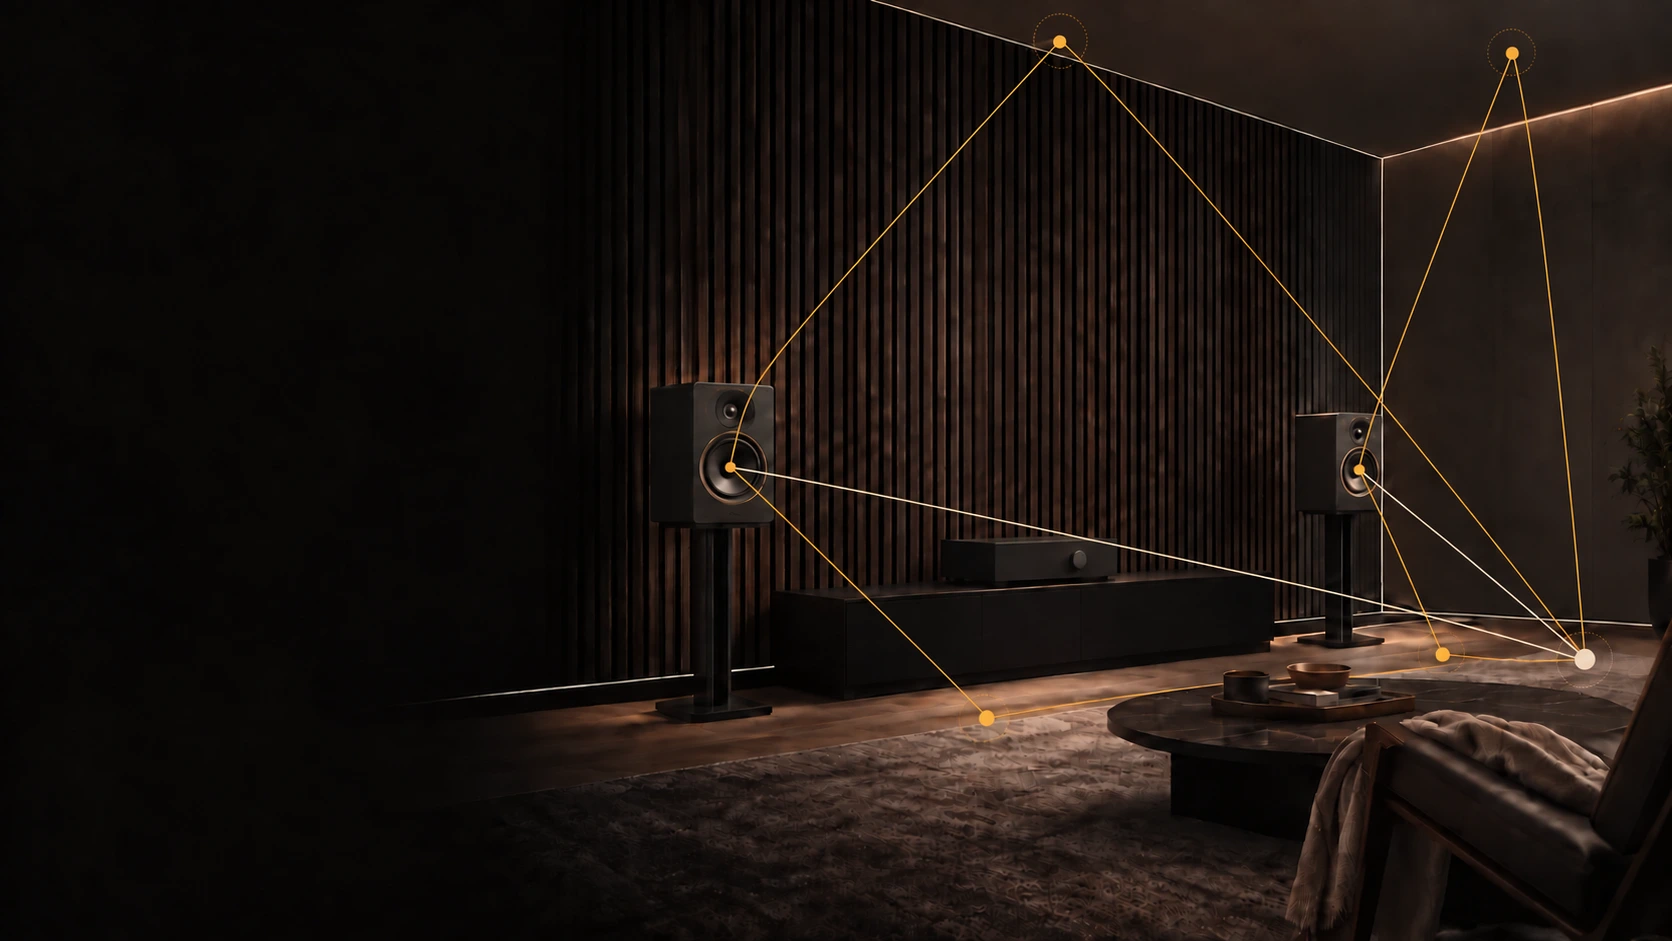
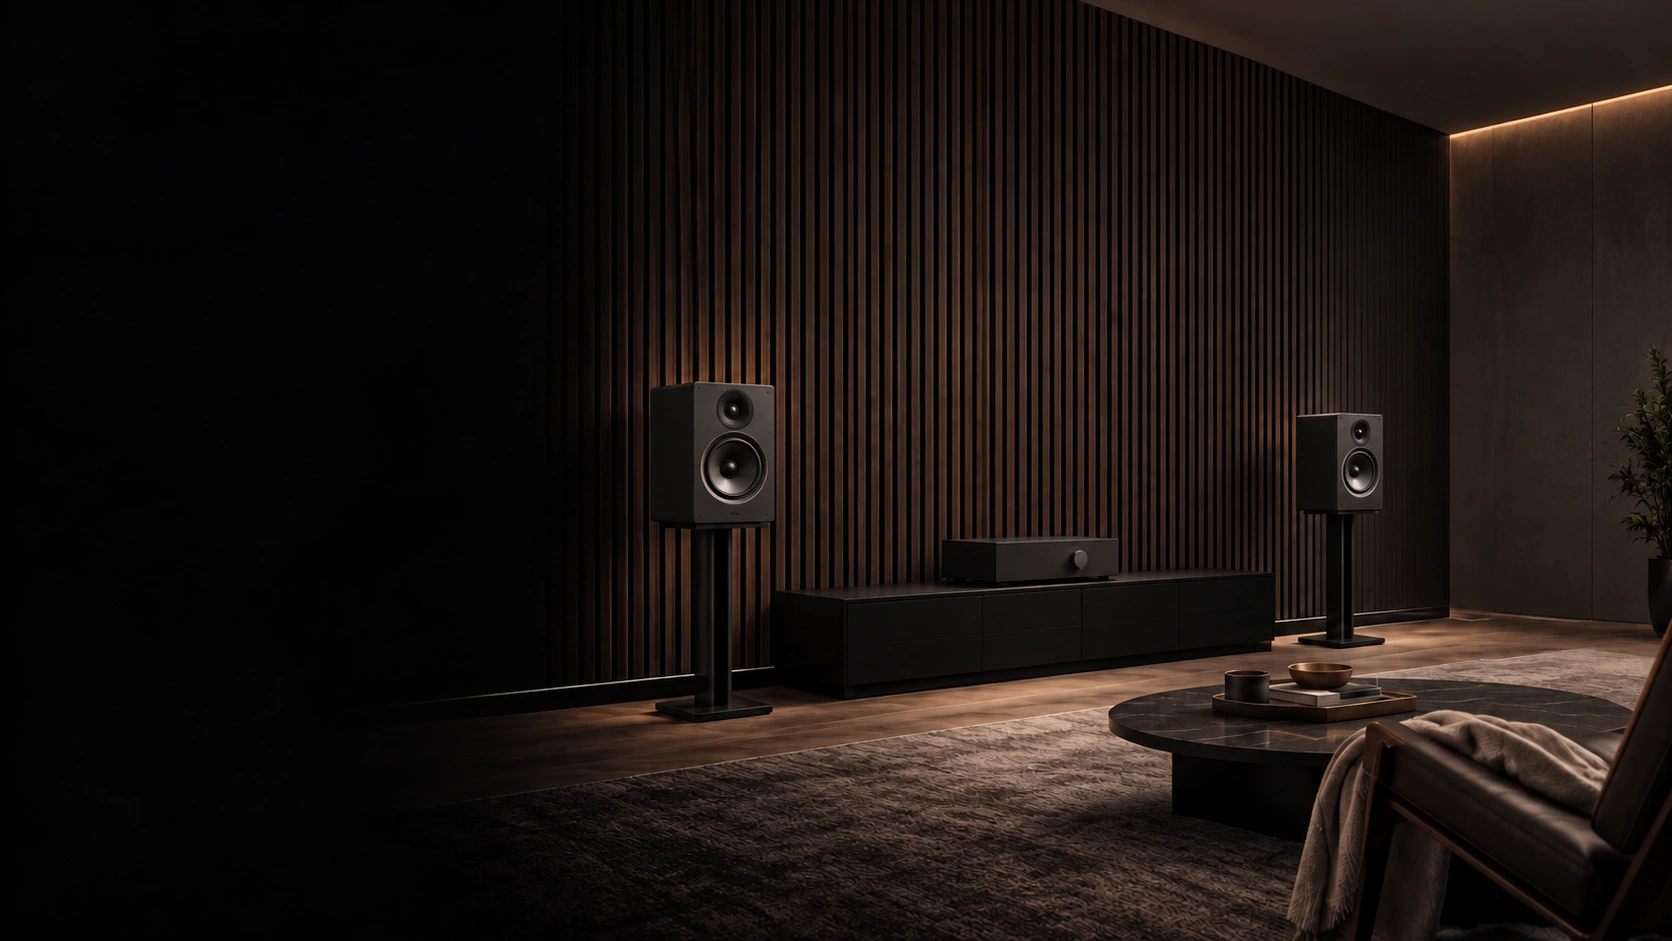
Portada: imagen principal nueva (sin trazados, con el lado izquierdo oscurecido)
Reemplaza hero-portada.webp por la imagen entregada por el usuario (139 KB,
WebP a calidad 0,94 para que el degradé oscuro no marque bandas). Sin líneas
naranjas en la imagen, el pie de figura pasa a "Ilustración conceptual, no es
una medición de tu sala".

diff --git a/apps/web/index.html b/apps/web/index.html
@@ -116,12 +116,12 @@
           </ul>
         </div>
       </div>
-      <!-- Imagen principal: marcador de la propuesta de Codex. Para cambiarla
+      <!-- Imagen principal (escena ilustrativa, sin trazados). Para cambiarla
            basta reemplazar apps/web/src/assets/hero-portada.webp (mismo
            nombre) — decorativa (alt vacío), el pie de figura declara qué es. -->
       <figure class="pc-hero-imagen">
         <img src="./src/assets/hero-portada.webp" width="1672" height="941" alt="">
-        <figcaption data-i18n="splash.pcImagenNota">Ilustración conceptual: los trazados no son una medición de tu sala.</figcaption>
+        <figcaption data-i18n="splash.pcImagenNota">Ilustración conceptual, no es una medición de tu sala.</figcaption>
       </figure>
     </div>
 

diff --git a/apps/web/src/idioma/en.ts b/apps/web/src/idioma/en.ts
@@ -124,7 +124,7 @@ export const en: Textos = {
     pcTitulo3: 'balance.',
     pcLead: 'Understand how your equipment, your room and the way you listen relate to each other.',
     pcCta: 'Set up my system',
-    pcImagenNota: 'Conceptual illustration: the lines are not a measurement of your room.',
+    pcImagenNota: 'Conceptual illustration, not a measurement of your room.',
     pcCarril1Titulo: 'Electrical match',
     pcCarril1Sub: 'amplifier ↔ speakers',
     pcCarril2Titulo: 'Power headroom',

diff --git a/apps/web/src/idioma/es.ts b/apps/web/src/idioma/es.ts
@@ -218,7 +218,7 @@ export const es = {
     pcTitulo3: 'equilibrio.',
     pcLead: 'Entiende la relación entre tus equipos, tu sala y tu forma de escuchar.',
     pcCta: 'Configurar mi sistema',
-    pcImagenNota: 'Ilustración conceptual: los trazados no son una medición de tu sala.',
+    pcImagenNota: 'Ilustración conceptual, no es una medición de tu sala.',
     pcCarril1Titulo: 'Acople eléctrico',
     pcCarril1Sub: 'amplificador ↔ parlantes',
     pcCarril2Titulo: 'Reserva de potencia',

diff --git a/CLAUDE.md b/CLAUDE.md
@@ -4663,8 +4663,13 @@ headless desde un PNG de 1,4 MB generado con IA por Codex): basta pisar
 ese archivo, mismo nombre. Es decorativa (`alt=""`) y lleva un pie de
 figura visible — "Ilustración conceptual: los trazados no son una
 medición de tu sala" — porque el sitio no afirma física sin mecanismo.
-Ojo: la guía gráfica THM pide evitar imágenes generadas por IA; el
-usuario lo sabe y eligió dejarla por ahora. `vite-plugin-singlefile` la
+**Actualización:** el usuario entregó una imagen nueva (`fondo thm portada1`, la
+misma escena sin las líneas naranjas y con el lado izquierdo ya oscurecido);
+reemplaza a la anterior (139 KB, WebP a calidad 0,94 — a 0,86 se veía más
+liviana, pero un degradé oscuro es justo donde el WebP marca bandas). Como ya
+no hay trazados, el pie de figura pasa a "Ilustración conceptual, no es una
+medición de tu sala". Ojo: la guía gráfica THM pide evitar imágenes generadas
+por IA; el usuario lo sabe y eligió dejarla por ahora. `vite-plugin-singlefile` la
 inlinea en base64 (`index.html` ≈ 878 KB), y `img-src 'self' data:` del
 CSP ya la permite.
 
